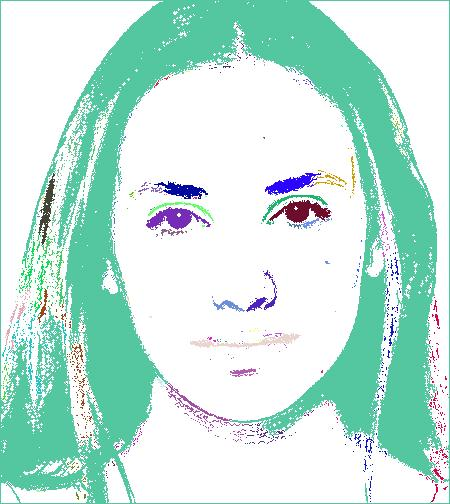
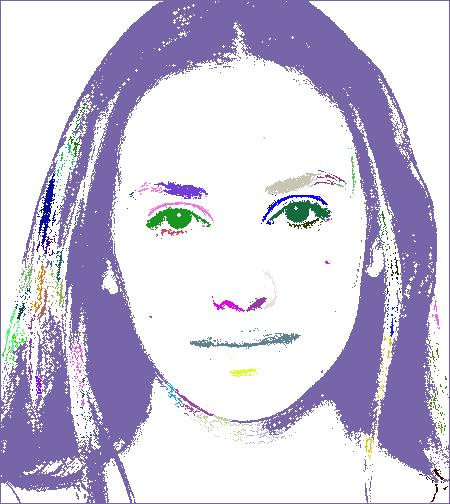
Integration with matching

diff --git a/extract_blocks.py b/extract_blocks.py
@@ -122,6 +122,7 @@ def label_illustration(labeled_im):
     r_channel = np.zeros(labeled_im.shape)
     g_channel = np.zeros(labeled_im.shape)
     b_channel = np.zeros(labeled_im.shape)
+    ctr = 0
     for i in range(labeled_im.shape[0]):
         for j in range(labeled_im.shape[1]):
             if labeled_im[i][j] == 0:
@@ -136,7 +137,13 @@ def label_illustration(labeled_im):
                 r = random.randint(0,255)
                 g = random.randint(0,255)
                 b = random.randint(0,255)
+                # ctr += 1
+                # if (ctr > 11):
+                #     r = 255
+                #     g = 255
+                #     b = 255
                 label_to_color[labeled_im[i][j]] = (r, g, b)
+                
             r_channel[i][j] = r
             g_channel[i][j] = g
             b_channel[i][j] = b
@@ -144,9 +151,9 @@ def label_illustration(labeled_im):
     new_img = Image.fromarray(np.dstack((r_channel, g_channel, b_channel)).astype(np.uint8))
     new_img.save("labeled_image.jpg")
 
-im = preprocess('data/test_face.jpg')
+# im = preprocess('data/test_face.jpg')
 # im = preprocess('data/leonardo.jpg')
-labeled_im, cur_label = label(im)
+# labeled_im, cur_label = label(im)
 # label_illustration(labeled_im)
 
 ############ Calculating centre of mass and orientation and grouping ############
@@ -186,12 +193,12 @@ def get_component_indices(labeled_im, cur_label):
 
     return x_bar_all, y_bar_all, theta_all, block_number_coords, x_coords_all, y_coords_all
 
-test_im = np.zeros((100,100))
-for i in range(45,55):
-    test_im[50][i] = 1.
-    test_im[51][i] = 1.
-    test_im[60][i] = 2.
-    test_im[61][i] = 2.
+# test_im = np.zeros((100,100))
+# for i in range(45,55):
+#     test_im[50][i] = 1.
+#     test_im[51][i] = 1.
+#     test_im[60][i] = 2.
+#     test_im[61][i] = 2.
 # x_bar_all, y_bar_all, theta_all, block_number_coords, x_coords_all, y_coords_all = get_component_indices(test_im, 2)
 # print(x_bar_all)
 # print(y_bar_all)
@@ -202,7 +209,7 @@ for i in range(45,55):
 # print(len(np.unique(labeled_im)))
 # print(cur_label)
 # print(labeled_im.shape[0]*labeled_im.shape[1])
-x_bar_all, y_bar_all, theta_all, block_number_coords, x_coords_all, y_coords_all = get_component_indices(labeled_im, cur_label)
+# x_bar_all, y_bar_all, theta_all, block_number_coords, x_coords_all, y_coords_all = get_component_indices(labeled_im, cur_label)
 
 def find_blocks_within_radius(cur_block_idx, labeled_im, x_bar, y_bar, radius):
     min_y = int(np.floor(y_bar - radius))
@@ -237,7 +244,7 @@ def find_nearest_block(cur_block_idx, blocks_within_radius, x_bar, y_bar):
     return min_distance_block 
 
 def grouping(labeled_im, cur_label, block_number_coords, x_bar, y_bar, x_coords_all, y_coords_all):
-    N_max = 400 #??????? This changes based on the image - need to test different values
+    N_max = 80 #??????? This changes based on the image - need to test different values
     for N in range(1, N_max + 1):
         radius = 8 - ( 6 * ( (N - 1) / (N_max - 1) ) )
         count = 0
@@ -255,29 +262,98 @@ def grouping(labeled_im, cur_label, block_number_coords, x_bar, y_bar, x_coords_
 
             #lies on same axis if any of the x coordinates are the same
             # lies_on_same_axis = bool(set(x_coords_all[nearest_block - 1]) & set(x_coords_all[i]))
-            lies_on_same_axis = False
-            if block_number_coords[nearest_block - 1] < N_max or lies_on_same_axis:
-                block_to_merge_with = max(i + 1, nearest_block)
-                block_to_merge = min(i + 1, nearest_block)
+            # lies_on_same_axis = False
+            # if block_number_coords[nearest_block - 1] < N_max or lies_on_same_axis:
+            block_to_merge_with = max(i + 1, nearest_block)
+            block_to_merge = min(i + 1, nearest_block)
 
-                # print(str(i+1) + " " + str(nearest_block))
-                # print(str(block_to_merge_with) + " " + str(block_to_merge))
+            # print(str(i+1) + " " + str(nearest_block))
+            # print(str(block_to_merge_with) + " " + str(block_to_merge))
 
-                x_coords = x_coords_all[block_to_merge - 1]
-                y_coords = y_coords_all[block_to_merge - 1]
+            x_coords = x_coords_all[block_to_merge - 1]
+            y_coords = y_coords_all[block_to_merge - 1]
 
-                labeled_im[x_coords, y_coords] = block_to_merge_with
-                block_number_coords[block_to_merge_with-1] = block_number_coords[block_to_merge_with-1] + block_number_coords[block_to_merge-1]
-                block_number_coords[block_to_merge-1] = 0
-                new_x_coords = np.append(x_coords_all[block_to_merge_with-1], x_coords)
-                new_y_coords = np.append(y_coords_all[block_to_merge_with-1], y_coords)
-                x_coords_all[block_to_merge_with-1] = new_x_coords
-                y_coords_all[block_to_merge_with-1] = new_y_coords
-                x_coords_all[block_to_merge-1] = np.array([])
-                y_coords_all[block_to_merge-1] = np.array([])
+            labeled_im[x_coords, y_coords] = block_to_merge_with
+            block_number_coords[block_to_merge_with-1] = block_number_coords[block_to_merge_with-1] + block_number_coords[block_to_merge-1]
+            block_number_coords[block_to_merge-1] = 0
+            new_x_coords = np.append(x_coords_all[block_to_merge_with-1], x_coords)
+            new_y_coords = np.append(y_coords_all[block_to_merge_with-1], y_coords)
+            x_coords_all[block_to_merge_with-1] = new_x_coords
+            y_coords_all[block_to_merge_with-1] = new_y_coords
+            x_coords_all[block_to_merge-1] = np.array([])
+            y_coords_all[block_to_merge-1] = np.array([])
 
     return labeled_im
 
-labeled_im = grouping(labeled_im, cur_label, block_number_coords, x_bar_all, y_bar_all, x_coords_all, y_coords_all)
-print(len(np.unique(labeled_im)))
-label_illustration(labeled_im)
+# Make labels consecutive in order after grouping
+def relabel_grouped_im(labeled_im, num_labels):
+    old_label_to_new_map = {}
+    ctr = 0
+    for i in range(labeled_im.shape[0]):
+        for j in range(labeled_im.shape[1]):
+            if labeled_im[i][j] == 0:
+                continue
+            if labeled_im[i][j] not in old_label_to_new_map:
+                ctr += 1
+                old_label_to_new_map[labeled_im[i][j]] = ctr
+            labeled_im[i][j] = old_label_to_new_map[labeled_im[i][j]]
+    if ctr != num_labels:
+        print("something broke")
+        print(ctr)
+        print(num_labels)
+
+# For testing
+def use_only_good_labels(labeled_im, labels_to_use):
+    num_labels = len(labels_to_use)
+    old_label_to_new_map = {}
+    ctr = 0
+    for i in range(labeled_im.shape[0]):
+        for j in range(labeled_im.shape[1]):
+            if labeled_im[i][j] == 0:
+                continue
+            if labeled_im[i][j] not in labels_to_use:
+                labeled_im[i][j] = 0
+                continue
+            if labeled_im[i][j] not in old_label_to_new_map:
+                ctr += 1
+                old_label_to_new_map[labeled_im[i][j]] = ctr
+            labeled_im[i][j] = old_label_to_new_map[labeled_im[i][j]]
+    if ctr != num_labels:
+        print("something broke")
+        print(ctr)
+        print(num_labels)
+
+            
+# Default 60 length for testing
+# Need to find a way to find length of semimajor axis
+def get_block_lengths(x_bar_all, y_bar_all, theta_all, x_coords_all, y_coords_all):
+    block_lengths = np.zeros(len(theta_all))
+    for i in range(len(block_lengths)):
+        block_lengths[i] = 60
+    return block_lengths
+
+from matching import Matching, Block
+def classifyFace(image_name):
+    im = preprocess(image_name)
+    labeled_im, cur_label = label(im)
+    x_bar_all, y_bar_all, theta_all, block_number_coords, x_coords_all, y_coords_all = get_component_indices(labeled_im, cur_label)
+    labeled_im = grouping(labeled_im, cur_label, block_number_coords, x_bar_all, y_bar_all, x_coords_all, y_coords_all)
+    print(str(len(np.unique(labeled_im))) + " Connected Components")
+    num_labels = len(np.unique(labeled_im)) - 1
+    relabel_grouped_im(labeled_im, num_labels)
+
+    # good_labels = {1, 4, 6, 7, 10, 12, 14}
+    # 7 10 12 14
+    # use_only_good_labels(labeled_im, good_labels)
+
+    label_illustration(labeled_im)
+    x_bar_all, y_bar_all, theta_all, block_number_coords, x_coords_all, y_coords_all = get_component_indices(labeled_im, num_labels)
+    block_lengths = get_block_lengths(x_bar_all, y_bar_all, theta_all, x_coords_all, y_coords_all)
+
+
+    # blocks = []
+    # for i in range(len(block_lengths)):
+    #     blocks.append(Block(x_bar_all[i], y_bar_all[i], theta_all[i], block_lengths[i]))
+    # print(Matching(blocks))
+
+classifyFace('data/test_face.jpg')
